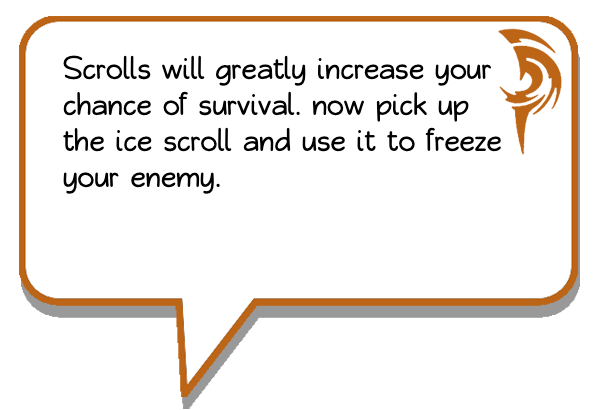
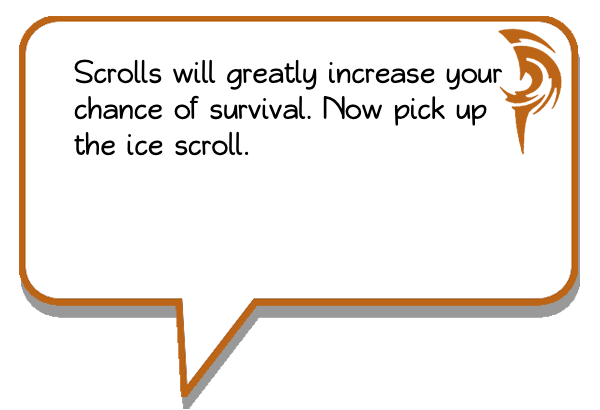
add tutorial phase: intro to indicator

Changed region(s): [[0.09, 0.1171, 0.84, 0.3805], [0.09, 0.4098, 0.36, 0.4683]]

diff --git a/NinjaJump/Scenes/NJTutorialScene.m b/NinjaJump/Scenes/NJTutorialScene.m
@@ -39,6 +39,7 @@
 #define kImageDialogUseShurikenFileName @"dialogUseShuriken.png"
 #define kImageDialogPickupMedikitFileName @"dialogPickupMedikit.png"
 #define kImageDialogUseScrollFileName @"dialogUseScroll.png"
+#define kImageDialogIntroScrollIndicatorFileName @"dialogIntroScrollIndicator.png"
 #define kImageDialogFinishFileName @"dialogFinish.png"
 
 
@@ -55,6 +56,8 @@ typedef enum : uint8_t {
     NJTutorialPhaseIntroToMedikit,
     NJTutorialPhasePickupMedikit,
     NJTutorialPhaseIntroToIce,
+    NJTutorialPhasePickupIce,
+    NJTutorialPhaseIndicator,
     NJTutorialPhaseUseIce,
     NJTutorialPhaseFinish
 } NJTutorialPhase;
@@ -83,7 +86,7 @@ typedef enum : uint8_t {
 - (instancetype)initWithSizeWithoutSelection:(CGSize)size{
     self = [super initWithSize:size mode:NJGameModeTutorial];
     if (self){
-        dialogImageNames = [NSArray arrayWithObjects:kImageDialogIntroFileName, kImageDialogAttackFileName, kImageDialogPickupShurikenFileName, kImageDialogUseShurikenFileName, kImageDialogPickupMedikitFileName, kImageDialogUseScrollFileName, kImageDialogFinishFileName, nil];
+        dialogImageNames = [NSArray arrayWithObjects:kImageDialogIntroFileName, kImageDialogAttackFileName, kImageDialogPickupShurikenFileName, kImageDialogUseShurikenFileName, kImageDialogPickupMedikitFileName, kImageDialogUseScrollFileName, kImageDialogIntroScrollIndicatorFileName, kImageDialogFinishFileName, nil];
         dialogImageIndex = 0;
         
         [self initGameSettings];
@@ -216,6 +219,10 @@ typedef enum : uint8_t {
 #pragma mark - game setting utility
 
 - (void)addItem:(NSInteger)itemName{
+    if (!self.items) {
+        self.items = [NSMutableArray array];
+    }
+    
     NJPile *pile = [self spawnAtRandomPileForNinja:NO];
     if (!pile) {
         return;
@@ -250,8 +257,15 @@ typedef enum : uint8_t {
 
 }
 
-- (SKSpriteNode*)createArrowWithVector:(CGVector)vector andPosition:(CGPoint)position{
-    SKSpriteNode *arrow = [[SKSpriteNode alloc] initWithImageNamed:@"arrow.png"];
+- (SKSpriteNode*)createArrowWithVector:(CGVector)vector andPosition:(CGPoint)position andDirectionIsNormal:(BOOL)directionIsNormal{
+    
+    SKSpriteNode *arrow;
+    if (directionIsNormal) {
+        arrow = [[SKSpriteNode alloc] initWithImageNamed:@"arrow.png"];
+    } else {
+        arrow = [[SKSpriteNode alloc] initWithImageNamed:@"arrowReverse.png"];
+    }
+    
     arrow.size = CGSizeMake(600/6.0, 400/7.0);
     arrow.position = position;
     
@@ -272,6 +286,10 @@ typedef enum : uint8_t {
 
 - (void)addWoodPiles
 {
+    if (!self.woodPiles) {
+        self.woodPiles = [NSMutableArray array];
+    }
+    
     CGFloat r= 120.0f;
     
     NSArray *pilePos = [NSArray arrayWithObjects: [NSValue valueWithCGPoint:CGPointMake(r, r)], [NSValue valueWithCGPoint:CGPointMake(1024-r, r)], [NSValue valueWithCGPoint:CGPointMake(1024-r, 768-r)], [NSValue valueWithCGPoint:CGPointMake(r, 768-r)], [NSValue valueWithCGPoint:CGPointMake(512, 580)], [NSValue valueWithCGPoint:CGPointMake(250, 250)], [NSValue valueWithCGPoint:CGPointMake(350, 100)], [NSValue valueWithCGPoint:CGPointMake(650, 350)], [NSValue valueWithCGPoint:CGPointMake(850, 400)], [NSValue valueWithCGPoint:CGPointMake(100, 300)], [NSValue valueWithCGPoint:CGPointMake(250, 500)], [NSValue valueWithCGPoint:CGPointMake(550, 400)], [NSValue valueWithCGPoint:CGPointMake(700, 600)], [NSValue valueWithCGPoint:CGPointMake(750, 150)], nil];
@@ -326,9 +344,19 @@ typedef enum : uint8_t {
                 }
             }
             break;
-            
+        
+        case NJTutorialPhasePickupIce:
+            if (((NJPlayer*)self.players[1]).item) {
+                [self goToNextPhaseWithDelay];
+            } else {
+                if ([self.items count] == 0 && !((NJPlayer*)self.players[1]).item){
+                    [self addItem:kItemNameIceScroll];
+                }
+            }
+            break;
+        
         case NJTutorialPhaseUseIce:
-            if (!((NJPlayer*)self.players[3]).item) {
+            if (!((NJPlayer*)self.players[1]).item) {
                 if (((NJPlayer*)self.players[3]).ninja.frozenCount > 0){
                     [self goToNextPhaseWithDelay];
                 } else if ([self.items count] == 0 && !((NJPlayer*)self.players[1]).item) {
@@ -337,6 +365,8 @@ typedef enum : uint8_t {
             }
 
             break;
+        
+        
 
         default:
             break;
@@ -384,7 +414,7 @@ typedef enum : uint8_t {
             case NJTutorialPhaseIntro:
                 [self toggleControl];
                 phaseNum++;
-                [self addChild:[self createArrowWithVector:CGVectorMake(-30, 0) andPosition:CGPointMake(865, 100)]];
+                [self addChild:[self createArrowWithVector:CGVectorMake(-30, 0) andPosition:CGPointMake(865, 100) andDirectionIsNormal:YES]];
             
                 break;
                 
@@ -393,7 +423,7 @@ typedef enum : uint8_t {
                 phaseNum++;
                 [self activateDummyPlayer];
             
-                [self addChild:[self createArrowWithVector:CGVectorMake(-30, 0) andPosition:CGPointMake(((NJPlayer*)self.players[3]).ninja.position.x-110, ((NJPlayer*)self.players[3]).ninja.position.y)]];
+                [self addChild:[self createArrowWithVector:CGVectorMake(-30, 0) andPosition:CGPointMake(((NJPlayer*)self.players[3]).ninja.position.x-110, ((NJPlayer*)self.players[3]).ninja.position.y) andDirectionIsNormal:YES]];
             
                 break;
             
@@ -402,7 +432,7 @@ typedef enum : uint8_t {
                 phaseNum++;
                 [self addItem:kItemNameShuriken];
             
-                [self addChild:[self createArrowWithVector:CGVectorMake(-30, 0) andPosition:CGPointMake(((NJSpecialItem*)self.items[0]).position.x-110, ((NJSpecialItem*)self.items[0]).position.y)]];
+                [self addChild:[self createArrowWithVector:CGVectorMake(-30, 0) andPosition:CGPointMake(((NJSpecialItem*)self.items[0]).position.x-110, ((NJSpecialItem*)self.items[0]).position.y) andDirectionIsNormal:YES]];
             
                 break;
                 
@@ -410,7 +440,7 @@ typedef enum : uint8_t {
                 [self toggleControl];
                 phaseNum++;
             
-                [self addChild:[self createArrowWithVector:CGVectorMake(-30, 0) andPosition:CGPointMake(800, 50)]];
+                [self addChild:[self createArrowWithVector:CGVectorMake(-30, 0) andPosition:CGPointMake(800, 50) andDirectionIsNormal:YES]];
 
                 break;
  
@@ -420,7 +450,7 @@ typedef enum : uint8_t {
                 [self addItem:kItemNameMedikit];
                 ((NJPlayer*)self.players[1]).ninja.health -= 40;
             
-                [self addChild:[self createArrowWithVector:CGVectorMake(-30, 0) andPosition:CGPointMake(((NJSpecialItem*)self.items[0]).position.x-110, ((NJSpecialItem*)self.items[0]).position.y)]];
+                [self addChild:[self createArrowWithVector:CGVectorMake(-30, 0) andPosition:CGPointMake(((NJSpecialItem*)self.items[0]).position.x-110, ((NJSpecialItem*)self.items[0]).position.y) andDirectionIsNormal:YES]];
             
                 break;
                 
@@ -430,8 +460,27 @@ typedef enum : uint8_t {
                 [self addItem:kItemNameIceScroll];
                 break;
             
+            case NJTutorialPhaseIndicator:
+                [self toggleControl];
+                phaseNum++;
+            
+                NSLog(@"%f, %f", ((NJPlayer*)self.players[1]).ninja.position.x, ((NJPlayer*)self.   players[1]).ninja.position.y);
+                if (((NJPlayer*)self.players[1]).ninja.position.x >= 200) {
+                    [self addChild:[self createArrowWithVector:CGVectorMake(-30, 0) andPosition:CGPointMake(((NJPlayer*)self.players[1]).ninja.position.x-250, ((NJPlayer*)self.players[1]).ninja.position.y) andDirectionIsNormal:YES]];
+                } else {
+                    [self addChild:[self createArrowWithVector:CGVectorMake(30, 0) andPosition:CGPointMake(((NJPlayer*)self.players[1]).ninja.position.x+250, ((NJPlayer*)self.players[1]).ninja.position.y) andDirectionIsNormal:NO]];
+                    
+                }
+            
+                break;
+            
             case NJTutorialPhaseFinish:
                 [self.delegate backToModeSelectionScene];
+                break;
+            
+            
+            
+            
             
             default:
                 break;
@@ -440,6 +489,8 @@ typedef enum : uint8_t {
 }
 
 - (void)homeButton:(NJTutorialHomeButton *) button touchesEnded:(NSSet *)touches{
+    [self.music pause];
+    self.music = nil;
     [self.delegate backToModeSelectionScene];
 }
 

diff --git a/NinjaJump/Scenes/NJMultiplayerLayeredCharacterScene.m b/NinjaJump/Scenes/NJMultiplayerLayeredCharacterScene.m
@@ -47,7 +47,6 @@
     BOOL isFirstTimeInitialized;
     BOOL isGameEnded;
     BOOL shouldPileStartDecreasing;
-    AVAudioPlayer *music;
     NSUInteger kNumberOfFramesToSpawnItem;
     BOOL hasBeenPaused;
 }
@@ -70,7 +69,7 @@
         isGameEnded = NO;
         shouldPileStartDecreasing = NO;
         self.doAddItemRandomly = YES;
-        hasBeenPaused = false;
+        hasBeenPaused = NO;
         [self buildWorld];
         
         if (mode != NJGameModeTutorial) {
@@ -285,7 +284,9 @@
             }
             NJNinjaCharacter *ninja = [self addNinjaForPlayer:player];
             [self addNode:ninja.shadow atWorldLayer:NJWorldLayerBelowCharacter];
-            NJPile *pile = [self spawnAtRandomPileForNinja:NO];
+            
+            NJPile *pile = [self spawnAtRandomPileForNinja:YES];
+            
             pile.standingCharacter = ninja;
             ninja.position = pile.position;
         }else if(player.ninja){
@@ -731,7 +732,7 @@
 
 - (NJPile *)spawnAtRandomPileForNinja:(BOOL)isNinja
 {
-    NSMutableArray *array = [NSMutableArray new];
+    NSMutableArray *array = [NSMutableArray array];
     for (NJPile *pile in _woodPiles) {
         BOOL isFree = YES;
         for (NJPlayer *player in self.players) {
@@ -798,7 +799,7 @@
 {
     self.physicsWorld.speed = 0;
     hasBeenPaused = YES;
-    [music pause];
+    [self.music pause];
     
     [self showPausePanel];
 }
@@ -811,25 +812,26 @@
     } else if(actionIndex == CONTINUE){
         hasBeenPaused = NO;
         self.physicsWorld.speed = 1;
-        [music play];
+        [self.music play];
     } else if(actionIndex == BACK){
         NSNotificationCenter *nc  = [NSNotificationCenter defaultCenter];
         [nc removeObserver:self];
+        [self.music pause];
         [self.delegate backToModeSelectionScene];
     }
 }
 
 - (void)resetMusic {
-    if (music) {
-        [music pause];
+    if (self.music) {
+        [self.music pause];
     }
     int musicIndex = arc4random() % [self.musicName count];
     NSURL *url = [NSURL fileURLWithPath:[[NSBundle mainBundle] pathForResource:self.musicName[musicIndex] ofType:@"mp3"]];
     
     NSError *error;
-    music = [[AVAudioPlayer alloc] initWithContentsOfURL:url error:&error];
-    music.numberOfLoops = 100;
-    [music play];
+    self.music = [[AVAudioPlayer alloc] initWithContentsOfURL:url error:&error];
+    self.music.numberOfLoops = 100;
+    [self.music play];
 }
 
 - (void)restartGame{
@@ -853,6 +855,8 @@
     [self initSelectionSystem];
     
     [self resetMusic];
+    hasBeenPaused = NO;
+    self.physicsWorld.speed = 1;
 }
 
 - (void)removeNinjas

diff --git a/NinjaJump/Scenes/NJMultiplayerLayeredCharacterScene.h b/NinjaJump/Scenes/NJMultiplayerLayeredCharacterScene.h
@@ -75,6 +75,7 @@ typedef void (^NJAssetLoadCompletionHandler)(void);
 @property BOOL doAddItemRandomly;
 
 @property (nonatomic) NSArray *musicName;
+@property (nonatomic) AVAudioPlayer *music;
 
 - (instancetype)initWithSize:(CGSize)size mode:(NJGameMode)mode;
 

diff --git a/NinjaJump/Sprites/ItemEffect/NJItemEffect.h b/NinjaJump/Sprites/ItemEffect/NJItemEffect.h
@@ -7,7 +7,6 @@
 //
 
 #import <SpriteKit/SpriteKit.h>
-#import "NJMultiplayerLayeredCharacterScene.h"
 #import "NJCharacter.h"
 
 @class NJItemEffect;
